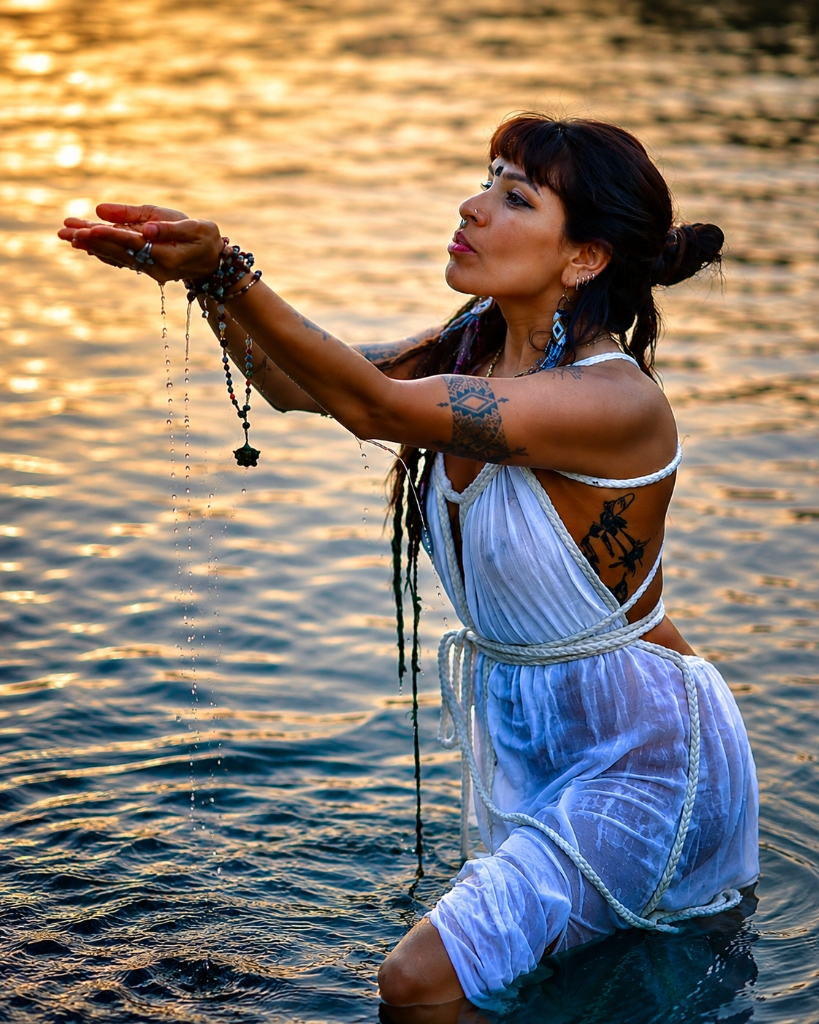
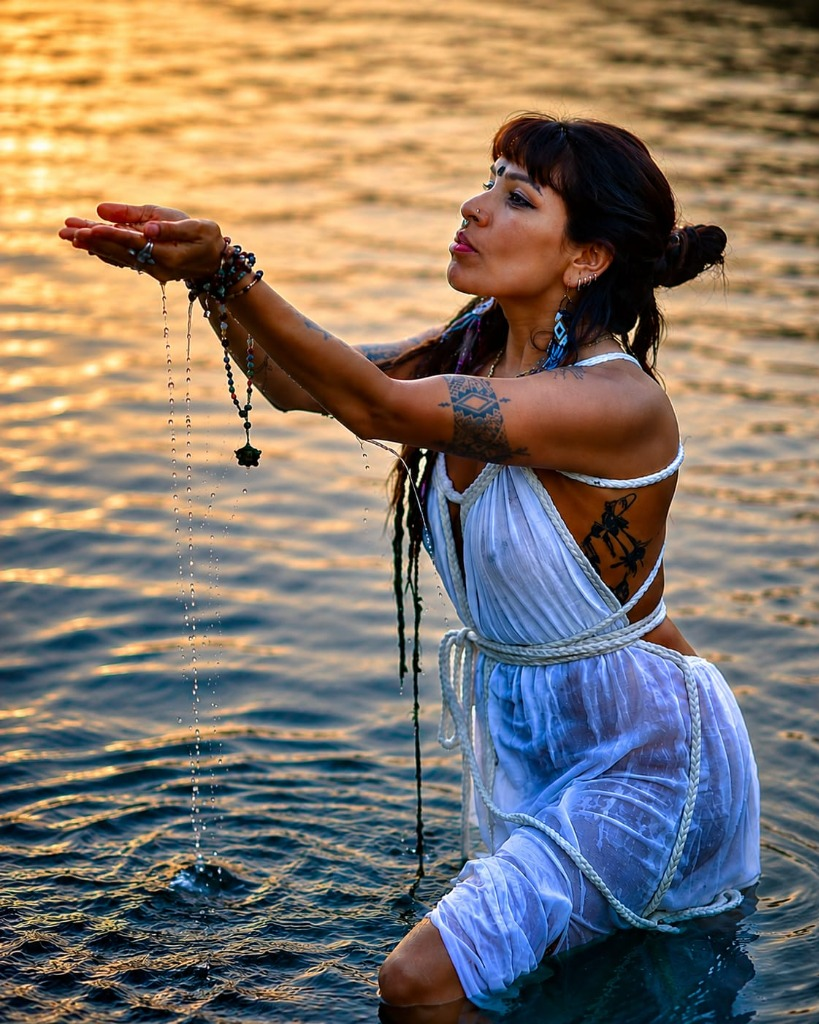
style: perfect mobile hero layout to show entire image without crop

diff --git a/src/app/page.tsx b/src/app/page.tsx
@@ -17,7 +17,7 @@ export default function Home() {
           01 — FULL-BLEED HERO
           Immersive, magazine-style. Image dominates.
           ═══════════════════════════════════════════ */}
-      <section className="relative h-screen overflow-hidden">
+      <section className="relative w-full aspect-[819/1024] max-h-[100dvh] md:aspect-auto md:h-screen overflow-hidden">
         {/* Full background image */}
         <Image
           src={photos.mainPhoto}
